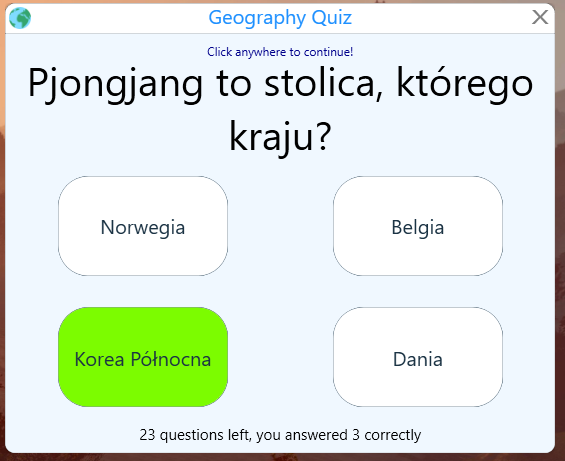
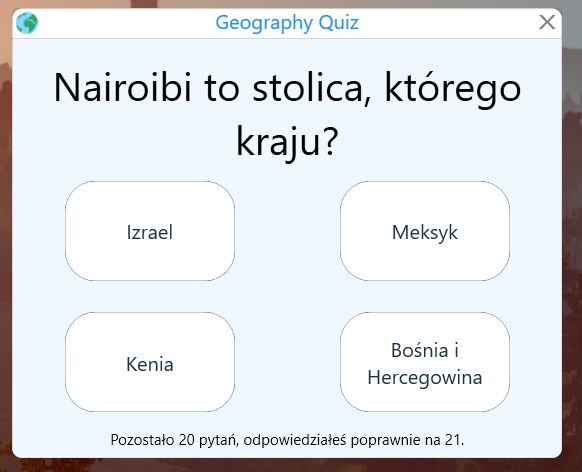
Translated two sentences to Polish and replaced two screenshots.

diff --git a/GeographyQuiz/Pages/GamePage.xaml b/GeographyQuiz/Pages/GamePage.xaml
@@ -109,7 +109,7 @@
                 HorizontalAlignment="Center"
                 VerticalAlignment="Top"
                 Foreground="DarkBlue"
-                Text="Click anywhere to continue!" />
+                Text="Przyciśnij gdziekolwiek aby kontyunować!" />
         </Border>
     </Grid>
 

diff --git a/GeographyQuiz/ViewModels/Games/GameViewModel.cs b/GeographyQuiz/ViewModels/Games/GameViewModel.cs
@@ -217,7 +217,7 @@ namespace GeographyQuiz
                 IsBreakOn = false;
 
                 // Informs the user of his current score 
-                ScoreInformation = string.Format("{0} questions left, you answered {1} correctly", NumberOfQuestionsLeft, NumberOfCorrectAnswers);
+                ScoreInformation = string.Format("Pozostało {0} pytań, odpowiedziałeś poprawnie na {1}.", NumberOfQuestionsLeft, NumberOfCorrectAnswers);
 
                 // Gets the buttons with content from helper class
                 var buttonsList = nextQuestion.NextQuestion(CountriesForTheGame, gameMode, NumberOfQuestionsLeft);
